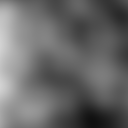
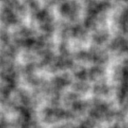
Changed seeds to make a bumpier terrain

diff --git a/RavenEngine/Raven/Source/ProceduralGenerator/TerrainGeneration.cpp b/RavenEngine/Raven/Source/ProceduralGenerator/TerrainGeneration.cpp
@@ -15,7 +15,7 @@ namespace Raven {
 
 	void TerrainGeneration::Initialize()
 	{
-		FileFormat type = PNG;
+		FileFormat type = FileFormat::PNG;
 		const int width = 128;
 		const int height = 128;
 
@@ -30,9 +30,11 @@ namespace Raven {
 	{	
 		const int octaves = 4;
 		// seeds
-		float a = 0.5;
-		float b = 1.0;
-		bool periodic = false;
+		float a = 7.5;	// higher value increases bumpiness; originally 0.5
+		float b = 1.5;	// higher value increases smoothness; originally 1.0
+		// a needs to be much higher than b for a bumpy terrain
+
+		bool periodic = false;	// for seamless noise
 
 		// buffer to store noise data
 		//GLubyte* data = new GLubyte[width * height * octaves];
@@ -82,7 +84,7 @@ namespace Raven {
 
 		// add heights from all octaves
 		float sumHeight = 0;
-
+		// compute the average height and store as RGB data
 		for (int row = 0; row < height; row++)
 		{
 			for (int col = 0; col < width; col++)
@@ -98,7 +100,6 @@ namespace Raven {
 						heightFields[(row * width + col) * 3] = sumHeight;
 						heightFields[((row * width + col) * 3) + 1] = sumHeight;
 						heightFields[((row * width + col) * 3) + 2] = sumHeight;
-						//out << (int)sumHeight << ' ' << (int)sumHeight << ' ' << (int)sumHeight << '\n';
 						sumHeight = 0;
 						//out << (int)data[((row * width + col) * octaves) + oct] << ' ' << (int)data[((row * width + col) * octaves) + oct] << ' ' << (int)data[((row * width + col) * octaves) + oct] << '\n';
 					}
@@ -124,16 +125,16 @@ namespace Raven {
 		// write heights to different image formats
 		switch (type)
 		{
-		case PNG:
+		case FileFormat::PNG:
 			stbi_write_png("heightmap.png", width, height, 3, data, width * 3);	// last parameter is stride in bytes
 			break;
-		case BMP:
+		case FileFormat::BMP:
 			stbi_write_bmp("heightmap.bmp", width, height, 3, data);
 			break;
-		case JPG:
+		case FileFormat::JPG:
 			stbi_write_jpg("heightmap.jpg", width, height, 3, data, 100);	// int quality
 			break;
-		case TGA:
+		case FileFormat::TGA:
 			stbi_write_tga("heightmap.tga", width, height, 3, data);
 			break;
 		}

diff --git a/RavenEngine/Raven/Source/Engine.cpp b/RavenEngine/Raven/Source/Engine.cpp
@@ -202,7 +202,7 @@ namespace Raven
 	{
 		// get the terrain generator and generate a height map
 		auto generator = GetModule<TerrainGeneration>();
-		generator->Noise(100, 100, TerrainGeneration::FileFormat::PNG);
+		generator->Noise(100, 100, FileFormat::PNG);
 		std::string path("heightmap.png");
 		// load the generated height map into resource manager
 		GetModule<ResourceManager>()->LoadResource<Texture2D>(path);

diff --git a/RavenEngine/Raven/Source/ProceduralGenerator/TerrainGeneration.h b/RavenEngine/Raven/Source/ProceduralGenerator/TerrainGeneration.h
@@ -10,6 +10,11 @@
 
 namespace Raven {
 
+	enum class FileFormat
+	{
+		PNG, BMP, JPG, TGA
+	};
+
 	class TerrainGeneration : public IModule
 	{
 	public:
@@ -21,11 +26,6 @@ namespace Raven {
 
 		// return the type of the module
 		static EModuleType GetModuleType() { return MT_ProceduralGenerator; }
-
-		enum FileFormat
-		{
-			PNG, BMP, JPG, TGA
-		};
 
 		// initialise module
 		virtual void Initialize() override;
